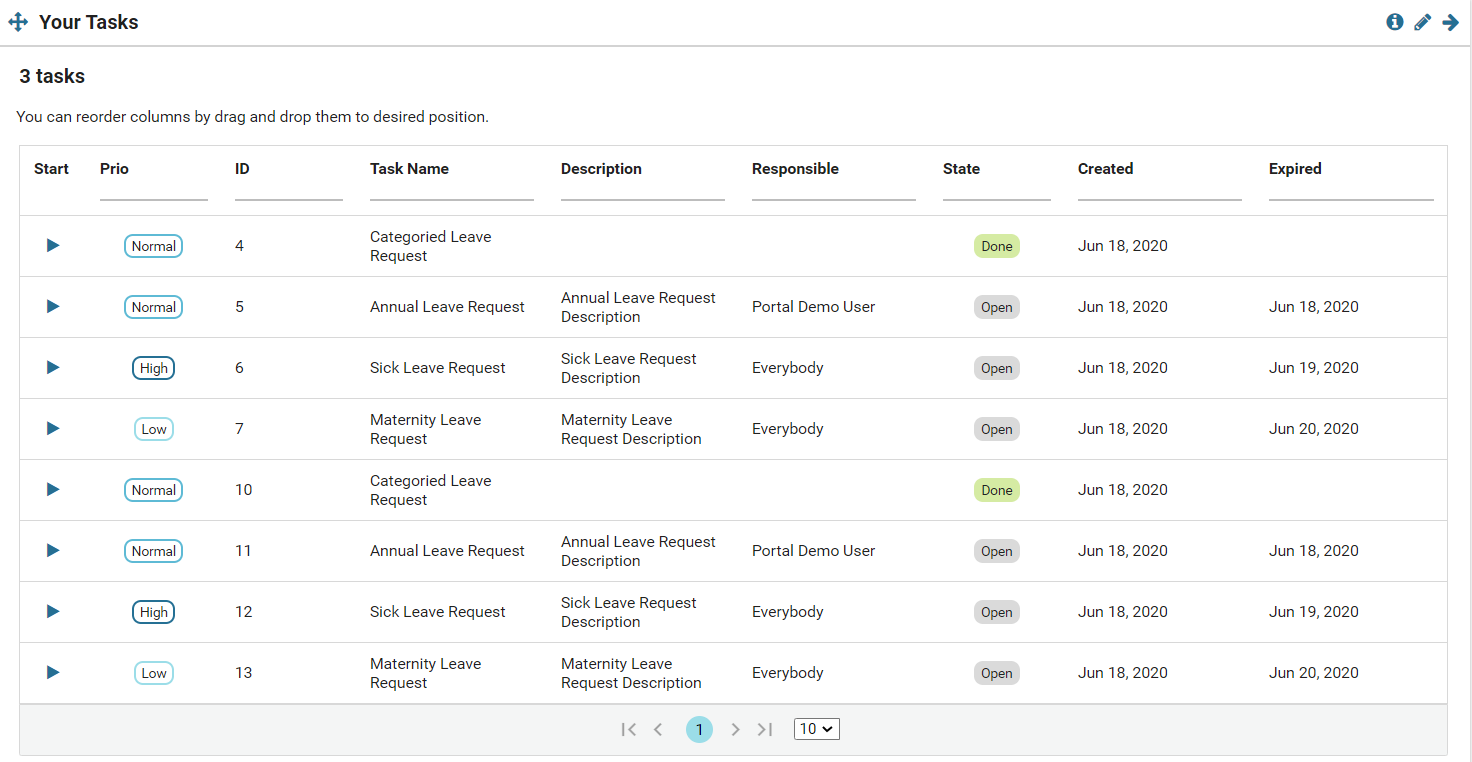
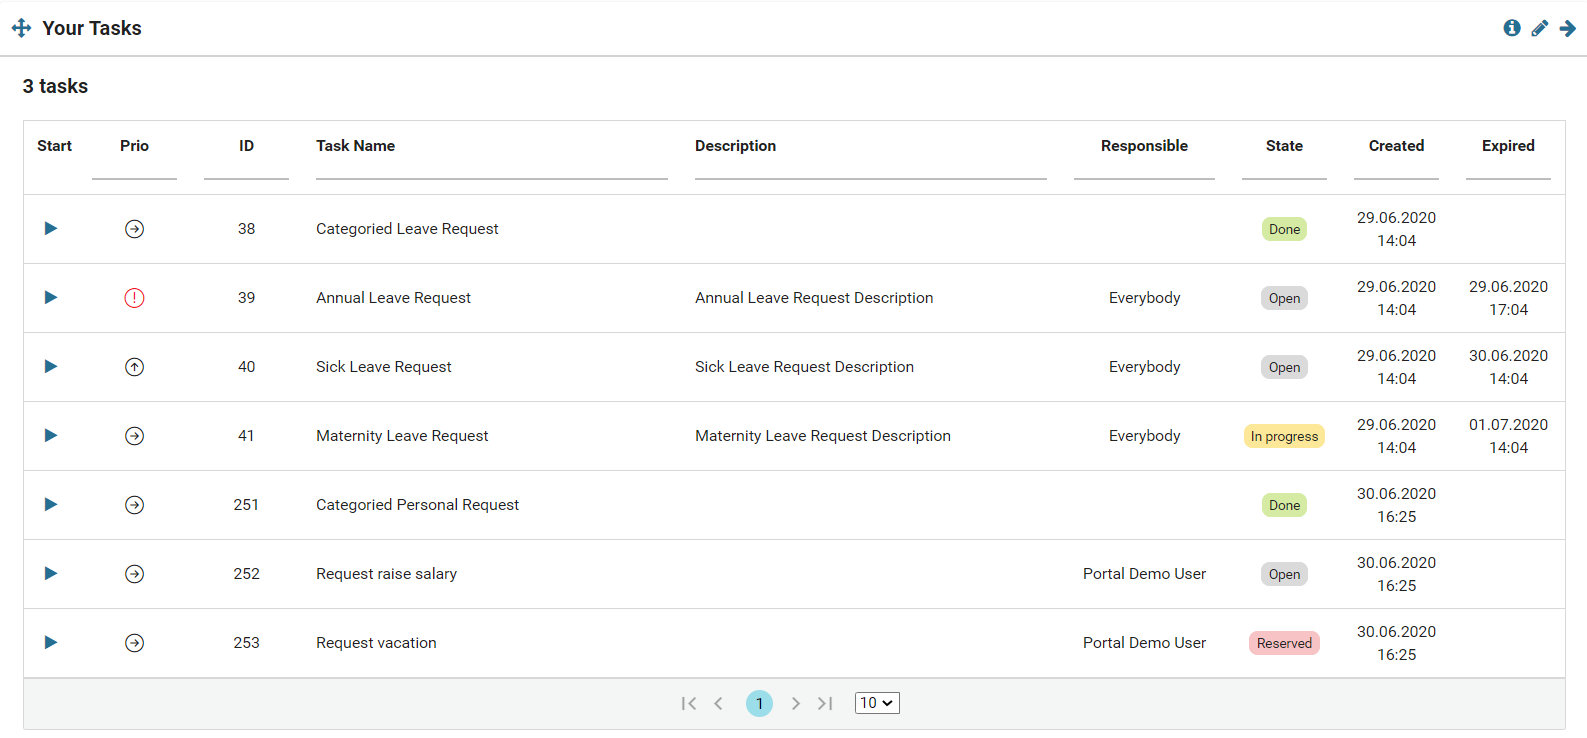
IVYPORTAL-10004 Create a Dashboard with Drag and Drop Functionality II: + Pimp up Task widget UI

diff --git a/AxonIvyPortal/PortalKit/webContent/resources/css/module.css b/AxonIvyPortal/PortalKit/webContent/resources/css/module.css
@@ -4692,10 +4692,6 @@ height:100%;
 	color: white;
 	margin: 0 5px;
 }
-.prototype-task-table .start-column {
-	width: 60px !important;
-	position: relative;
-}
 
 .prototype-task-table {
 	padding: 10px;
@@ -4706,8 +4702,8 @@ height:100%;
 }
 
 .prototype-task-table .start-column .ui-column-title {
-	position: absolute;
-	top: 12px;
+	position: relative;
+	top: -11px;
 }
 
 .prototype-task-table .start-column .fa {
@@ -4725,11 +4721,6 @@ height:100%;
   display: block;
 }
 
-.prototype-task-table .state-column,
-.prototype-task-table .task-id-column {
-	width: 120px !important;
-}
-
 .prototype-task-table .default-column {
 	max-width: 300px;
 	width: 300px;
@@ -4739,7 +4730,6 @@ height:100%;
 .prototype-task-table .state-column .state {
   border-radius: 8px;
   box-sizing: border-box;
-  display: block;
   font-size: 1.2rem;
   width: fit-content;
   padding: 2px 5px;
@@ -4762,7 +4752,7 @@ height:100%;
   border: 1.5px solid #D4EBA2;
 }
 
-.prototype-task-table .state-column .state.RESERVED {
+.prototype-task-table .state-column .state.PARKED {
   background: #FCC3C3;
   border: 1.5px solid #FCC3C3;
 }

diff --git a/AxonIvyPortal/PortalTemplate/src/ch/ivy/addon/portal/generic/bean/TaskWidgetConfigurationPrototypeBean.java b/AxonIvyPortal/PortalTemplate/src/ch/ivy/addon/portal/generic/bean/TaskWidgetConfigurationPrototypeBean.java
@@ -72,7 +72,7 @@ public class TaskWidgetConfigurationPrototypeBean {
       case DONE:
         return Ivy.cms().co("/ch.ivy.addon.portalkit.ui.jsf/taskState/DONE");
       case PARKED:
-        return Ivy.cms().co("/ch.ivy.addon.portalkit.ui.jsf/taskState/RESERVED");
+        return Ivy.cms().co("/ch.ivy.addon.portalkit.ui.jsf/taskState/PARKED");
       case DESTROYED:
       case ZOMBIE:
         return Ivy.cms().co("/ch.ivy.addon.portalkit.ui.jsf/taskState/DESTROYED");
